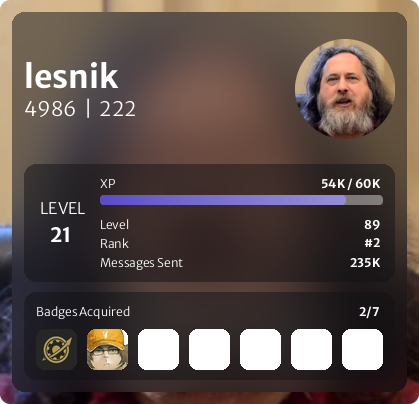
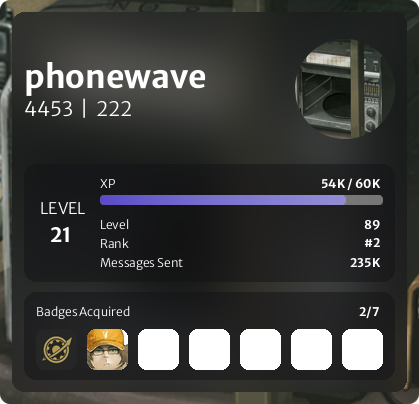
made use of member.display_name

diff --git a/app/modules/info/hiddenprofilecard.py b/app/modules/info/hiddenprofilecard.py
@@ -8,11 +8,6 @@ import app.utilities.drawing.master as drawing
 
 def profileCardFromMember(member):
 
-    # getting user's server specific nickname (if it's not set, then just getting his general discord name)
-    nickname = member.nick
-    if not nickname:
-        nickname = member.name
-
     #######################################################
     #  TODO!!! REPLACE PLACEHOLDER VALUES WITH REAL ONES  #
     #######################################################
@@ -20,7 +15,7 @@ def profileCardFromMember(member):
     return discord.File(
         drawing.draw_profile_card(
             member.avatar.url,  # avatar
-            nickname,  # nickname
+            member.display_name,  # nickname
             member.discriminator,  # discriminator
             222,  # lab mem
             21,  # level
